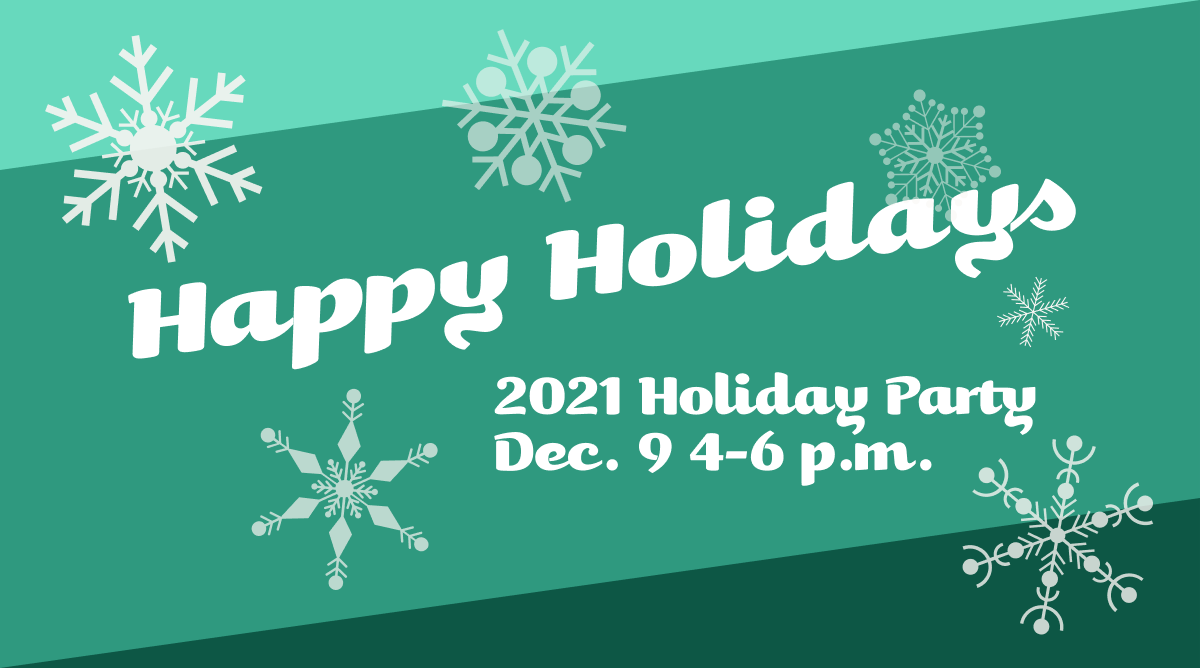
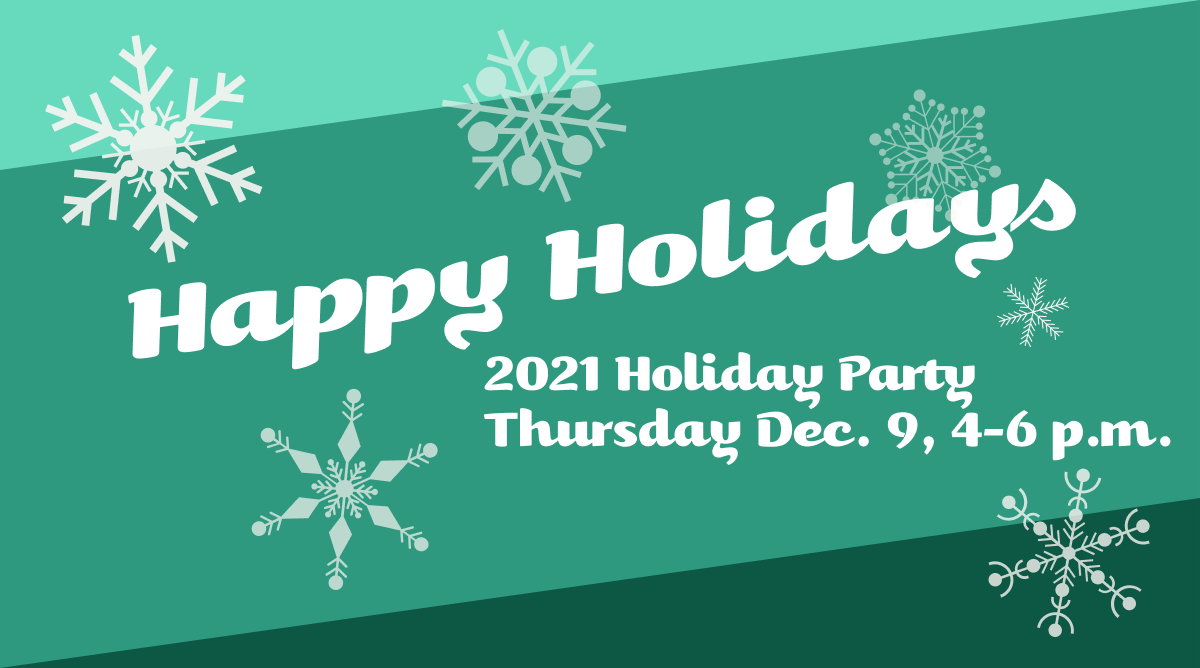
Holiday invite edits

Changed region(s): [[0.4008, 0.509, 0.9867, 0.9581]]

diff --git a/holiday2021/invite/index.html b/holiday2021/invite/index.html
@@ -1,144 +1,144 @@
 <!doctype html><html xmlns="http://www.w3.org/1999/xhtml" xmlns:v="urn:schemas-microsoft-com:vml" xmlns:o="urn:schemas-microsoft-com:office:office"><head><title></title><!--[if !mso]><!-- --><meta http-equiv="X-UA-Compatible" content="IE=edge"><!--<![endif]--><meta http-equiv="Content-Type" content="text/html; charset=UTF-8"><meta name="viewport" content="width=device-width,initial-scale=1"><style type="text/css">#outlook a { padding:0; }
-  .ReadMsgBody { width:100%; }
-  .ExternalClass { width:100%; }
-  .ExternalClass * { line-height:100%; }
-  body { margin:0;padding:0;-webkit-text-size-adjust:100%;-ms-text-size-adjust:100%; }
-  table, td { border-collapse:collapse;mso-table-lspace:0pt;mso-table-rspace:0pt; }
-  img { border:0;height:auto;line-height:100%; outline:none;text-decoration:none;-ms-interpolation-mode:bicubic; }
-  p { display:block;margin:13px 0; }</style><!--[if !mso]><!--><style type="text/css">@media only screen and (max-width:480px) {
-    @-ms-viewport { width:320px; }
-    @viewport { width:320px; }
-  }</style><!--<![endif]--><!--[if mso]>
-<xml>
-<o:OfficeDocumentSettings>
-  <o:AllowPNG/>
-  <o:PixelsPerInch>96</o:PixelsPerInch>
-</o:OfficeDocumentSettings>
-</xml>
-<![endif]--><!--[if lte mso 11]>
-<style type="text/css">
-  .outlook-group-fix { width:100% !important; }
-</style>
-<![endif]--><!--[if !mso]><!--><link href="https://fonts.googleapis.com/css?family=Lato" rel="stylesheet" type="text/css"><style type="text/css">@import url(https://fonts.googleapis.com/css?family=Lato);</style><!--<![endif]--><style type="text/css">@media only screen and (min-width:480px) {
-.mj-column-per-100 { width:100% !important; }
-}</style><style type="text/css"></style></head><body style="background-color:#1A483D;"><div style="background-color:#1A483D;"><!-- Header --><!--[if mso | IE]>
-<table
- align="center" border="0" cellpadding="0" cellspacing="0" style="width:600px;" width="600"
->
-<tr>
-  <td style="line-height:0px;font-size:0px;mso-line-height-rule:exactly;">
-<![endif]--><div style="Margin:0px auto;max-width:600px;"><table align="center" border="0" cellpadding="0" cellspacing="0" role="presentation" style="width:100%;"><tbody><tr><td style="direction:ltr;font-size:0px;padding:20px 0;padding-bottom:0;padding-top:65px;text-align:center;vertical-align:top;"><!--[if mso | IE]>
-          <table role="presentation" border="0" cellpadding="0" cellspacing="0">
-
-<tr>
-
-    <td
-       style="vertical-align:top;width:600px;"
-    >
-  <![endif]--><div class="mj-column-per-100 outlook-group-fix" style="font-size:13px;text-align:left;direction:ltr;display:inline-block;vertical-align:top;width:100%;"><table border="0" cellpadding="0" cellspacing="0" role="presentation" style="vertical-align:top;" width="100%"><tr><td align="center" style="font-size:0px;padding:0;word-break:break-word;"><table align="center" border="0" cellpadding="0" cellspacing="0" role="presentation" style="border-collapse:collapse;border-spacing:0px;"><tbody><tr><td style="width:600px;"><img alt="Happy Holidays, 2021 Holiday Party, Dec. 9 4-6 p.m." height="auto" src="https://mailings.humboldt.edu/holiday2021/save-date/header.png" style="border:0;display:block;outline:none;text-decoration:none;width:100%;" width="600"></td></tr></tbody></table></td></tr></table></div><!--[if mso | IE]>
-    </td>
-
-</tr>
-
-          </table>
-        <![endif]--></td></tr></tbody></table></div><!--[if mso | IE]>
-  </td>
-</tr>
-</table>
-<![endif]--><!-- Introduction Text --><!--[if mso | IE]>
-<table
- align="center" border="0" cellpadding="0" cellspacing="0" style="width:600px;" width="600"
->
-<tr>
-  <td style="line-height:0px;font-size:0px;mso-line-height-rule:exactly;">
-<![endif]--><div style="background:#0D5745;background-color:#0D5745;Margin:0px auto;max-width:600px;"><table align="center" border="0" cellpadding="0" cellspacing="0" role="presentation" style="background:#0D5745;background-color:#0D5745;width:100%;"><tbody><tr><td style="direction:ltr;font-size:0px;padding:0;text-align:center;vertical-align:top;"><!--[if mso | IE]>
-          <table role="presentation" border="0" cellpadding="0" cellspacing="0">
-
-<tr>
-
-    <td
-       style="vertical-align:top;width:600px;"
-    >
-  <![endif]--><div class="mj-column-per-100 outlook-group-fix" style="font-size:13px;text-align:left;direction:ltr;display:inline-block;vertical-align:top;width:100%;"><table border="0" cellpadding="0" cellspacing="0" role="presentation" style="vertical-align:top;" width="100%"><tr><td align="left" style="font-size:0px;padding:10px 25px;word-break:break-word;"><div style="font-family:Lato, Arial, sans-serif;font-size:16px;line-height:1.4;text-align:left;color:#fff;">Dear HSU Staff and Faculty,</div></td></tr><tr><td align="left" style="font-size:0px;padding:10px 25px;word-break:break-word;"><div style="font-family:Lato, Arial, sans-serif;font-size:16px;line-height:1.4;text-align:left;color:#fff;">Let’s get together and celebrate!</div></td></tr><tr><td align="left" style="font-size:0px;padding:10px 25px;word-break:break-word;"><div style="font-family:Lato, Arial, sans-serif;font-size:16px;line-height:1.4;text-align:left;color:#fff;">We are re-establishing our holiday season tradition with an in-person party in the West Gym on Thursday, December 9 from 4-6 p.m.</div></td></tr><tr><td align="left" style="font-size:0px;padding:10px 25px;word-break:break-word;"><div style="font-family:Lato, Arial, sans-serif;font-size:16px;line-height:1.4;text-align:left;color:#fff;">Please join us and your colleagues for food, drinks, games, music, and a spectacular ugly sweater contest. We hope you will engage with us in these festivities as we honor your contributions and welcome in the holiday season, including a new year of promise.</div></td></tr></table></div><!--[if mso | IE]>
-    </td>
-
-</tr>
-
-          </table>
-        <![endif]--></td></tr></tbody></table></div><!--[if mso | IE]>
-  </td>
-</tr>
-</table>
-
-<table
- align="center" border="0" cellpadding="0" cellspacing="0" style="width:600px;" width="600"
->
-<tr>
-  <td style="line-height:0px;font-size:0px;mso-line-height-rule:exactly;">
-<![endif]--><div style="background:#0D5745;background-color:#0D5745;Margin:0px auto;max-width:600px;"><table align="center" border="0" cellpadding="0" cellspacing="0" role="presentation" style="background:#0D5745;background-color:#0D5745;width:100%;"><tbody><tr><td style="direction:ltr;font-size:0px;padding:0;text-align:center;vertical-align:top;"><!--[if mso | IE]>
-          <table role="presentation" border="0" cellpadding="0" cellspacing="0">
-
-<tr>
-
-    <td
-       style="vertical-align:top;width:600px;"
-    >
-  <![endif]--><div class="mj-column-per-100 outlook-group-fix" style="font-size:13px;text-align:left;direction:ltr;display:inline-block;vertical-align:top;width:100%;"><table border="0" cellpadding="0" cellspacing="0" role="presentation" style="vertical-align:top;" width="100%"><tr><td align="left" style="font-size:0px;padding:10px 25px;word-break:break-word;"><div style="font-family:Lato, Arial, sans-serif;font-size:16px;line-height:1.4;text-align:left;color:#fff;">We are excited to partner with Oh Snap!, who will collect household items and toiletries for students. We know there are many ways each of you contribute to the lives of our students, and giving to Oh Snap! is an additional option. Should you be interested in donating as part of this event, the following are the most-needed items: laundry detergent (unscented when possible), all purpose cleaners, dish soap, sponges, shampoo, conditioner, body wash, soap, deodorant, shaving cream, razors, toothbrushes, toothpaste, floss, toilet paper and socks.</div></td></tr><tr><td align="left" style="font-size:0px;padding:10px 25px;word-break:break-word;"><div style="font-family:Lato, Arial, sans-serif;font-size:16px;line-height:1.4;text-align:left;color:#fff;">We look forward to seeing you at the holiday celebration and are eager to thank you in person.</div></td></tr><tr><td align="left" style="font-size:0px;padding:10px 25px;padding-top:30px;word-break:break-word;"><div style="font-family:Lato, Arial, sans-serif;font-size:16px;line-height:1.4;text-align:left;color:#fff;">Sincerely,<br><br>President Tom and Mrs. Mona Jackson</div></td></tr></table></div><!--[if mso | IE]>
-    </td>
-
-</tr>
-
-          </table>
-        <![endif]--></td></tr></tbody></table></div><!--[if mso | IE]>
-  </td>
-</tr>
-</table>
-
-<table
- align="center" border="0" cellpadding="0" cellspacing="0" style="width:600px;" width="600"
->
-<tr>
-  <td style="line-height:0px;font-size:0px;mso-line-height-rule:exactly;">
-<![endif]--><div style="background:#0D5745;background-color:#0D5745;Margin:0px auto;max-width:600px;"><table align="center" border="0" cellpadding="0" cellspacing="0" role="presentation" style="background:#0D5745;background-color:#0D5745;width:100%;"><tbody><tr><td style="direction:ltr;font-size:0px;padding:0;text-align:center;vertical-align:top;"><!--[if mso | IE]>
-          <table role="presentation" border="0" cellpadding="0" cellspacing="0">
-
-<tr>
-
-    <td
-       style="vertical-align:top;width:600px;"
-    >
-  <![endif]--><div class="mj-column-per-100 outlook-group-fix" style="font-size:13px;text-align:left;direction:ltr;display:inline-block;vertical-align:top;width:100%;"><table border="0" cellpadding="0" cellspacing="0" role="presentation" style="vertical-align:top;" width="100%"><tr><td align="left" style="font-size:0px;padding:10px 25px;word-break:break-word;"><div style="font-family:Lato, Arial, sans-serif;font-size:16px;line-height:1.4;text-align:left;color:#fff;"><em>Please note:</em> This event requires masking except while eating or drinking. Attendance for the event is optional.</div></td></tr></table></div><!--[if mso | IE]>
-    </td>
-
-</tr>
-
-          </table>
-        <![endif]--></td></tr></tbody></table></div><!--[if mso | IE]>
-  </td>
-</tr>
-</table>
-
-<table
- align="center" border="0" cellpadding="0" cellspacing="0" style="width:600px;" width="600"
->
-<tr>
-  <td style="line-height:0px;font-size:0px;mso-line-height-rule:exactly;">
-<![endif]--><div style="Margin:0px auto;max-width:600px;"><table align="center" border="0" cellpadding="0" cellspacing="0" role="presentation" style="width:100%;"><tbody><tr><td style="direction:ltr;font-size:0px;padding:0 0 65px 0;text-align:center;vertical-align:top;"><!--[if mso | IE]>
-          <table role="presentation" border="0" cellpadding="0" cellspacing="0">
-
-<tr>
-
-    <td
-       style="vertical-align:top;width:600px;"
-    >
-  <![endif]--><div class="mj-column-per-100 outlook-group-fix" style="font-size:13px;text-align:left;direction:ltr;display:inline-block;vertical-align:top;width:100%;"><table border="0" cellpadding="0" cellspacing="0" role="presentation" style="vertical-align:top;" width="100%"><tr><td align="center" style="font-size:0px;padding:0;word-break:break-word;"><table align="center" border="0" cellpadding="0" cellspacing="0" role="presentation" style="border-collapse:collapse;border-spacing:0px;"><tbody><tr><td style="width:600px;"><img alt="Humboldt State Univeristy Circle H" height="auto" src="https://mailings.humboldt.edu/holiday2021/save-date/footer.png" style="border:0;display:block;outline:none;text-decoration:none;width:100%;" width="600"></td></tr></tbody></table></td></tr></table></div><!--[if mso | IE]>
-    </td>
-
-</tr>
-
-          </table>
-        <![endif]--></td></tr></tbody></table></div><!--[if mso | IE]>
-  </td>
-</tr>
-</table>
-<![endif]--></div></body></html>
+          .ReadMsgBody { width:100%; }
+          .ExternalClass { width:100%; }
+          .ExternalClass * { line-height:100%; }
+          body { margin:0;padding:0;-webkit-text-size-adjust:100%;-ms-text-size-adjust:100%; }
+          table, td { border-collapse:collapse;mso-table-lspace:0pt;mso-table-rspace:0pt; }
+          img { border:0;height:auto;line-height:100%; outline:none;text-decoration:none;-ms-interpolation-mode:bicubic; }
+          p { display:block;margin:13px 0; }</style><!--[if !mso]><!--><style type="text/css">@media only screen and (max-width:480px) {
+            @-ms-viewport { width:320px; }
+            @viewport { width:320px; }
+          }</style><!--<![endif]--><!--[if mso]>
+        <xml>
+        <o:OfficeDocumentSettings>
+          <o:AllowPNG/>
+          <o:PixelsPerInch>96</o:PixelsPerInch>
+        </o:OfficeDocumentSettings>
+        </xml>
+        <![endif]--><!--[if lte mso 11]>
+        <style type="text/css">
+          .outlook-group-fix { width:100% !important; }
+        </style>
+        <![endif]--><!--[if !mso]><!--><link href="https://fonts.googleapis.com/css?family=Lato" rel="stylesheet" type="text/css"><style type="text/css">@import url(https://fonts.googleapis.com/css?family=Lato);</style><!--<![endif]--><style type="text/css">@media only screen and (min-width:480px) {
+        .mj-column-per-100 { width:100% !important; }
+      }</style><style type="text/css"></style></head><body style="background-color:#1A483D;"><div style="background-color:#1A483D;"><!-- Header --><!--[if mso | IE]>
+      <table
+         align="center" border="0" cellpadding="0" cellspacing="0" style="width:600px;" width="600"
+      >
+        <tr>
+          <td style="line-height:0px;font-size:0px;mso-line-height-rule:exactly;">
+      <![endif]--><div style="Margin:0px auto;max-width:600px;"><table align="center" border="0" cellpadding="0" cellspacing="0" role="presentation" style="width:100%;"><tbody><tr><td style="direction:ltr;font-size:0px;padding:20px 0;padding-bottom:0;padding-top:65px;text-align:center;vertical-align:top;"><!--[if mso | IE]>
+                  <table role="presentation" border="0" cellpadding="0" cellspacing="0">
+                
+        <tr>
+      
+            <td
+               style="vertical-align:top;width:600px;"
+            >
+          <![endif]--><div class="mj-column-per-100 outlook-group-fix" style="font-size:13px;text-align:left;direction:ltr;display:inline-block;vertical-align:top;width:100%;"><table border="0" cellpadding="0" cellspacing="0" role="presentation" style="vertical-align:top;" width="100%"><tr><td align="center" style="font-size:0px;padding:0;word-break:break-word;"><table align="center" border="0" cellpadding="0" cellspacing="0" role="presentation" style="border-collapse:collapse;border-spacing:0px;"><tbody><tr><td style="width:600px;"><img alt="Happy Holidays, 2021 Holiday Party, Dec. 9 4-6 p.m." height="auto" src="https://mailings.humboldt.edu/holiday2021/save-date/header.png" style="border:0;display:block;outline:none;text-decoration:none;width:100%;" width="600"></td></tr></tbody></table></td></tr></table></div><!--[if mso | IE]>
+            </td>
+          
+        </tr>
+      
+                  </table>
+                <![endif]--></td></tr></tbody></table></div><!--[if mso | IE]>
+          </td>
+        </tr>
+      </table>
+      <![endif]--><!-- Introduction Text --><!--[if mso | IE]>
+      <table
+         align="center" border="0" cellpadding="0" cellspacing="0" style="width:600px;" width="600"
+      >
+        <tr>
+          <td style="line-height:0px;font-size:0px;mso-line-height-rule:exactly;">
+      <![endif]--><div style="background:#0D5745;background-color:#0D5745;Margin:0px auto;max-width:600px;"><table align="center" border="0" cellpadding="0" cellspacing="0" role="presentation" style="background:#0D5745;background-color:#0D5745;width:100%;"><tbody><tr><td style="direction:ltr;font-size:0px;padding:0;text-align:center;vertical-align:top;"><!--[if mso | IE]>
+                  <table role="presentation" border="0" cellpadding="0" cellspacing="0">
+                
+        <tr>
+      
+            <td
+               style="vertical-align:top;width:600px;"
+            >
+          <![endif]--><div class="mj-column-per-100 outlook-group-fix" style="font-size:13px;text-align:left;direction:ltr;display:inline-block;vertical-align:top;width:100%;"><table border="0" cellpadding="0" cellspacing="0" role="presentation" style="vertical-align:top;" width="100%"><tr><td align="left" style="font-size:0px;padding:10px 25px;word-break:break-word;"><div style="font-family:Lato, Arial, sans-serif;font-size:16px;line-height:1.4;text-align:left;color:#fff;">Dear HSU Staff and Faculty,</div></td></tr><tr><td align="left" style="font-size:0px;padding:10px 25px;word-break:break-word;"><div style="font-family:Lato, Arial, sans-serif;font-size:16px;line-height:1.4;text-align:left;color:#fff;">Let’s get together and celebrate!</div></td></tr><tr><td align="left" style="font-size:0px;padding:10px 25px;word-break:break-word;"><div style="font-family:Lato, Arial, sans-serif;font-size:16px;line-height:1.4;text-align:left;color:#fff;">We are re-establishing our holiday season tradition with an in-person party in the West Gym on Thursday, Dec. 9 from 4-6 p.m.</div></td></tr><tr><td align="left" style="font-size:0px;padding:10px 25px;word-break:break-word;"><div style="font-family:Lato, Arial, sans-serif;font-size:16px;line-height:1.4;text-align:left;color:#fff;">Please join us and your colleagues for food, drinks, games, music, and a spectacular ugly sweater contest. We hope you will engage with us in these festivities as we honor your contributions and welcome in the holiday season, including a new year of promise.</div></td></tr></table></div><!--[if mso | IE]>
+            </td>
+          
+        </tr>
+      
+                  </table>
+                <![endif]--></td></tr></tbody></table></div><!--[if mso | IE]>
+          </td>
+        </tr>
+      </table>
+      
+      <table
+         align="center" border="0" cellpadding="0" cellspacing="0" style="width:600px;" width="600"
+      >
+        <tr>
+          <td style="line-height:0px;font-size:0px;mso-line-height-rule:exactly;">
+      <![endif]--><div style="background:#0D5745;background-color:#0D5745;Margin:0px auto;max-width:600px;"><table align="center" border="0" cellpadding="0" cellspacing="0" role="presentation" style="background:#0D5745;background-color:#0D5745;width:100%;"><tbody><tr><td style="direction:ltr;font-size:0px;padding:0;text-align:center;vertical-align:top;"><!--[if mso | IE]>
+                  <table role="presentation" border="0" cellpadding="0" cellspacing="0">
+                
+        <tr>
+      
+            <td
+               style="vertical-align:top;width:600px;"
+            >
+          <![endif]--><div class="mj-column-per-100 outlook-group-fix" style="font-size:13px;text-align:left;direction:ltr;display:inline-block;vertical-align:top;width:100%;"><table border="0" cellpadding="0" cellspacing="0" role="presentation" style="vertical-align:top;" width="100%"><tr><td align="left" style="font-size:0px;padding:10px 25px;word-break:break-word;"><div style="font-family:Lato, Arial, sans-serif;font-size:16px;line-height:1.4;text-align:left;color:#fff;">We are excited to partner with Oh SNAP!, which will collect household items and toiletries for students. We know there are many ways each of you contribute to the lives of our students, and giving to Oh SNAP! is an additional option. Should you be interested in donating as part of this event, the following are the most-needed items: laundry detergent (unscented when possible), all-purpose cleaners, dish soap, sponges, shampoo, conditioner, body wash, soap, deodorant, shaving cream, razors, toothbrushes, toothpaste, floss, toilet paper, and socks.</div></td></tr><tr><td align="left" style="font-size:0px;padding:10px 25px;word-break:break-word;"><div style="font-family:Lato, Arial, sans-serif;font-size:16px;line-height:1.4;text-align:left;color:#fff;">We look forward to seeing you at the holiday celebration and are eager to thank you in person.</div></td></tr><tr><td align="left" style="font-size:0px;padding:10px 25px;padding-top:30px;word-break:break-word;"><div style="font-family:Lato, Arial, sans-serif;font-size:16px;line-height:1.4;text-align:left;color:#fff;">Sincerely,<br><br>President Tom Jackson, Jr. and Mrs. Mona Jackson</div></td></tr></table></div><!--[if mso | IE]>
+            </td>
+          
+        </tr>
+      
+                  </table>
+                <![endif]--></td></tr></tbody></table></div><!--[if mso | IE]>
+          </td>
+        </tr>
+      </table>
+      
+      <table
+         align="center" border="0" cellpadding="0" cellspacing="0" style="width:600px;" width="600"
+      >
+        <tr>
+          <td style="line-height:0px;font-size:0px;mso-line-height-rule:exactly;">
+      <![endif]--><div style="background:#0D5745;background-color:#0D5745;Margin:0px auto;max-width:600px;"><table align="center" border="0" cellpadding="0" cellspacing="0" role="presentation" style="background:#0D5745;background-color:#0D5745;width:100%;"><tbody><tr><td style="direction:ltr;font-size:0px;padding:0;text-align:center;vertical-align:top;"><!--[if mso | IE]>
+                  <table role="presentation" border="0" cellpadding="0" cellspacing="0">
+                
+        <tr>
+      
+            <td
+               style="vertical-align:top;width:600px;"
+            >
+          <![endif]--><div class="mj-column-per-100 outlook-group-fix" style="font-size:13px;text-align:left;direction:ltr;display:inline-block;vertical-align:top;width:100%;"><table border="0" cellpadding="0" cellspacing="0" role="presentation" style="vertical-align:top;" width="100%"><tr><td align="left" style="font-size:0px;padding:10px 25px;word-break:break-word;"><div style="font-family:Lato, Arial, sans-serif;font-size:16px;line-height:1.4;text-align:left;color:#fff;"><em>Please note:</em> This event requires masking except while eating or drinking. Attendance for the event is optional.</div></td></tr></table></div><!--[if mso | IE]>
+            </td>
+          
+        </tr>
+      
+                  </table>
+                <![endif]--></td></tr></tbody></table></div><!--[if mso | IE]>
+          </td>
+        </tr>
+      </table>
+      
+      <table
+         align="center" border="0" cellpadding="0" cellspacing="0" style="width:600px;" width="600"
+      >
+        <tr>
+          <td style="line-height:0px;font-size:0px;mso-line-height-rule:exactly;">
+      <![endif]--><div style="Margin:0px auto;max-width:600px;"><table align="center" border="0" cellpadding="0" cellspacing="0" role="presentation" style="width:100%;"><tbody><tr><td style="direction:ltr;font-size:0px;padding:0 0 65px 0;text-align:center;vertical-align:top;"><!--[if mso | IE]>
+                  <table role="presentation" border="0" cellpadding="0" cellspacing="0">
+                
+        <tr>
+      
+            <td
+               style="vertical-align:top;width:600px;"
+            >
+          <![endif]--><div class="mj-column-per-100 outlook-group-fix" style="font-size:13px;text-align:left;direction:ltr;display:inline-block;vertical-align:top;width:100%;"><table border="0" cellpadding="0" cellspacing="0" role="presentation" style="vertical-align:top;" width="100%"><tr><td align="center" style="font-size:0px;padding:0;word-break:break-word;"><table align="center" border="0" cellpadding="0" cellspacing="0" role="presentation" style="border-collapse:collapse;border-spacing:0px;"><tbody><tr><td style="width:600px;"><img alt="Humboldt State Univeristy Circle H" height="auto" src="https://mailings.humboldt.edu/holiday2021/save-date/footer.png" style="border:0;display:block;outline:none;text-decoration:none;width:100%;" width="600"></td></tr></tbody></table></td></tr></table></div><!--[if mso | IE]>
+            </td>
+          
+        </tr>
+      
+                  </table>
+                <![endif]--></td></tr></tbody></table></div><!--[if mso | IE]>
+          </td>
+        </tr>
+      </table>
+      <![endif]--></div></body></html>
